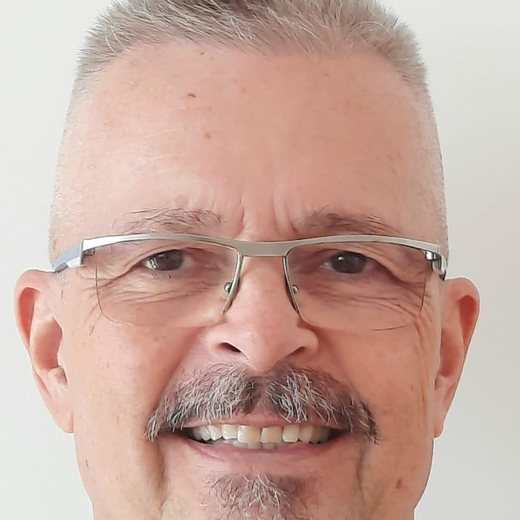
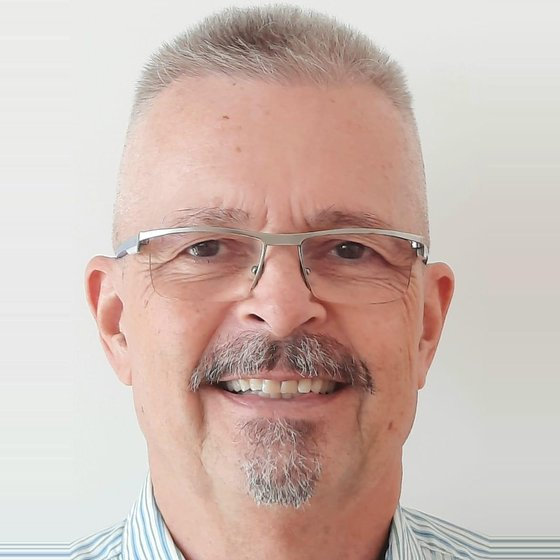
Deploy: VirtualRainbowReact site

diff --git a/streamline-ai/tocantins/assets/css/style.css b/streamline-ai/tocantins/assets/css/style.css
@@ -210,7 +210,7 @@ figure.fig figcaption { font-size: 0.82rem; color: var(--muted); font-style: ita
   padding: 28px; box-shadow: var(--shadow); display: flex; gap: 26px; align-items: center; flex-wrap: wrap; }
 .contact-card .ph { width: 160px; height: 160px; min-height: 0; flex: none; border-radius: 50%; }
 .georg-photo { width: 160px; height: 160px; flex: none; border-radius: 50%; object-fit: cover;
-  object-position: center 30%; box-shadow: var(--shadow); }
+  object-position: center; box-shadow: var(--shadow); }
 .contact-lines { font-size: 1.05rem; }
 .contact-lines a { font-weight: 600; }
 
